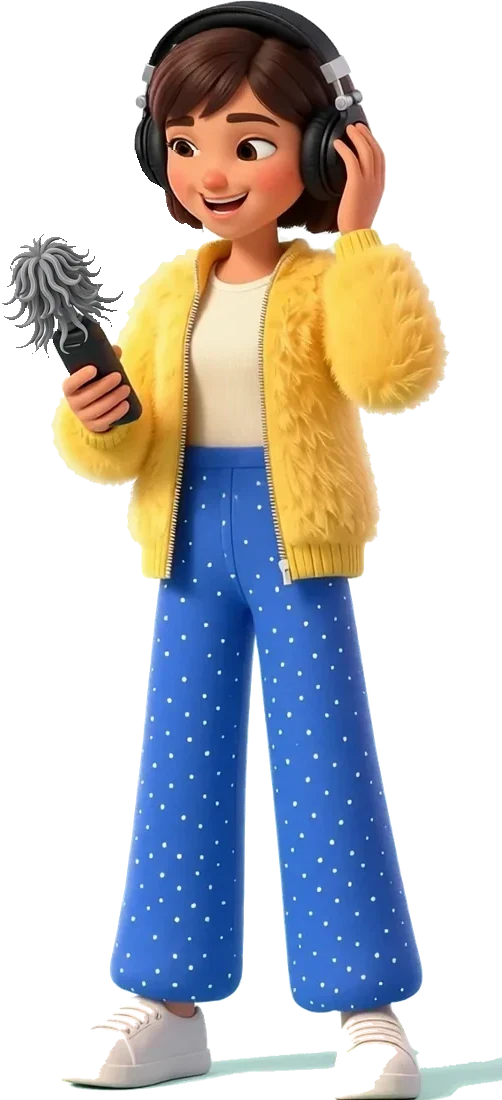
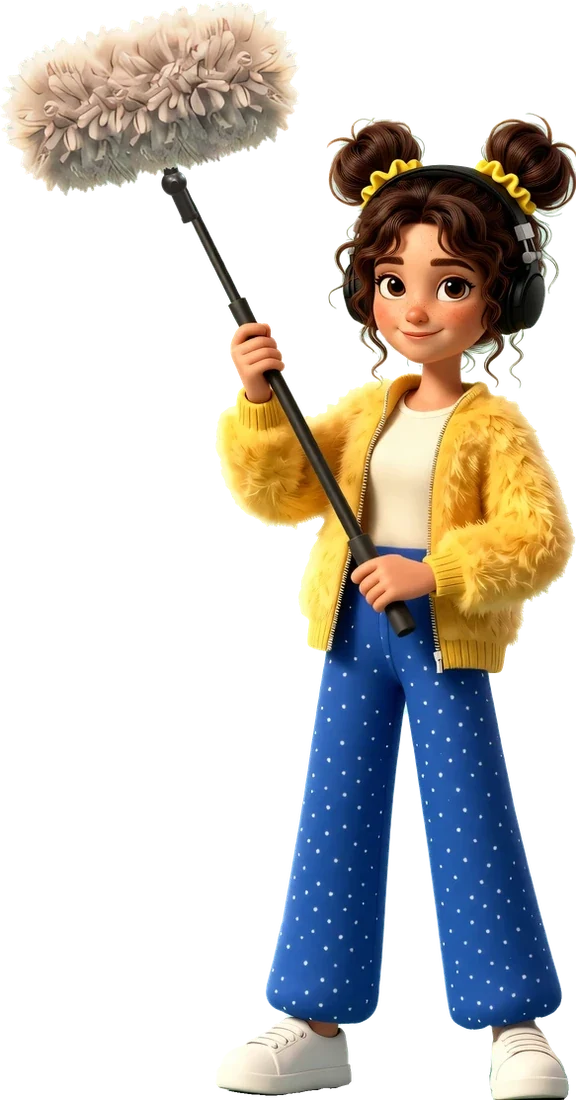
The team in a new, more stylish look: curly space buns, a workwear tester, a fox musician
- The recording person: fuller, curly space buns with yellow scrunchies; the same frame, so the boom
  windshield still hangs on her pole tip; on the map the round fluffy windshield on her boom again
- The tester: an American-style teal chore jacket over a dark t-shirt with a narrow vyshyvanka band on
  the cuffs, a calm face, the whole head in frame; on the map he holds the console with its screen to him
- The musician is a fox in streetwear: a keyboard on the first screen, a modular synth with patch
  cables on the map
- All six pictures finished the same way (4x upscale, cut, 1100 px, webp 90), so they share one
  sharpness; silhouettes, picture sizes and two descriptions (EN and UA) updated to match

diff --git a/index.html b/index.html
@@ -11,35 +11,35 @@
 <link rel="preconnect" href="https://fonts.gstatic.com" crossorigin>
 <link rel="stylesheet" href="https://fonts.googleapis.com/css2?family=Archivo:wdth,wght@62..125,100..900&family=Roboto+Flex:wdth,wght@25..151,100..1000&family=Montserrat:wght@600..900&display=swap">
 <script>try{if(localStorage.getItem("sfx-lang")==="uk"){document.documentElement.lang="uk";document.documentElement.classList.add("i18n-wait")}}catch(e){}</script>
-<link rel="stylesheet" href="css/style.css?v=202610232003">
+<link rel="stylesheet" href="css/style.css?v=202610232341">
 <link rel="preload" as="image" href="assets/system/scene-forest.webp" fetchpriority="high">
 <script type="importmap">
 {
   "imports": {
     "three": "https://cdn.jsdelivr.net/npm/three@0.170.0/build/three.module.min.js",
     "three/addons/": "https://cdn.jsdelivr.net/npm/three@0.170.0/examples/jsm/",
-    "./js/audio.js": "./js/audio.js?v=202610232003",
-    "./js/boom-frame.js": "./js/boom-frame.js?v=202610232003",
-    "./js/content.js": "./js/content.js?v=202610232003",
-    "./js/gift.js": "./js/gift.js?v=202610232003",
-    "./js/i18n-boot.js": "./js/i18n-boot.js?v=202610232003",
-    "./js/i18n-uk.js": "./js/i18n-uk.js?v=202610232003",
-    "./js/i18n.js": "./js/i18n.js?v=202610232003",
-    "./js/main.js": "./js/main.js?v=202610232003",
-    "./js/map.js": "./js/map.js?v=202610232003",
-    "./js/music/music.js": "./js/music/music.js?v=202610232003",
-    "./js/music/sound.js": "./js/music/sound.js?v=202610232003",
-    "./js/phone-speakers.js": "./js/phone-speakers.js?v=202610232003",
-    "./js/studio-anim.js": "./js/studio-anim.js?v=202610232003",
-    "./js/studio-console.js": "./js/studio-console.js?v=202610232003",
-    "./js/studio-foley.js": "./js/studio-foley.js?v=202610232003",
-    "./js/studio-piano.js": "./js/studio-piano.js?v=202610232003",
-    "./js/team-carousel.js": "./js/team-carousel.js?v=202610232003"
+    "./js/audio.js": "./js/audio.js?v=202610232341",
+    "./js/boom-frame.js": "./js/boom-frame.js?v=202610232341",
+    "./js/content.js": "./js/content.js?v=202610232341",
+    "./js/gift.js": "./js/gift.js?v=202610232341",
+    "./js/i18n-boot.js": "./js/i18n-boot.js?v=202610232341",
+    "./js/i18n-uk.js": "./js/i18n-uk.js?v=202610232341",
+    "./js/i18n.js": "./js/i18n.js?v=202610232341",
+    "./js/main.js": "./js/main.js?v=202610232341",
+    "./js/map.js": "./js/map.js?v=202610232341",
+    "./js/music/music.js": "./js/music/music.js?v=202610232341",
+    "./js/music/sound.js": "./js/music/sound.js?v=202610232341",
+    "./js/phone-speakers.js": "./js/phone-speakers.js?v=202610232341",
+    "./js/studio-anim.js": "./js/studio-anim.js?v=202610232341",
+    "./js/studio-console.js": "./js/studio-console.js?v=202610232341",
+    "./js/studio-foley.js": "./js/studio-foley.js?v=202610232341",
+    "./js/studio-piano.js": "./js/studio-piano.js?v=202610232341",
+    "./js/team-carousel.js": "./js/team-carousel.js?v=202610232341"
   }
 }
 </script>
-<script type="module" src="js/i18n-boot.js?v=202610232003"></script>
-<script type="module" src="js/main.js?v=202610232003"></script>
+<script type="module" src="js/i18n-boot.js?v=202610232341"></script>
+<script type="module" src="js/main.js?v=202610232341"></script>
 </head>
 <body>
 <a class="skip" href="#main">Skip to content</a>
@@ -89,7 +89,7 @@
       <div class="team" data-team data-start="1" role="region" aria-roledescription="carousel" aria-label="Our team: drag sideways or use the arrows to swap" tabindex="0">
         <div class="team__ring">
           <figure class="team__p" data-member="test" style="--h: .926">
-            <img class="team__body" src="assets/team/test.webp" srcset="assets/team/test-560.webp 261w, assets/team/test.webp 512w" sizes="(max-width: 1024px) 34vw, 17vw" alt="Illustration: a team member testing a mobile game on a phone" width="512" height="1100" decoding="async" draggable="false">
+            <img class="team__body" src="assets/team/test.webp" srcset="assets/team/test-560.webp 249w, assets/team/test.webp 489w" sizes="(max-width: 1024px) 34vw, 17vw" alt="Illustration: a team member testing a mobile game on a phone" width="489" height="1100" decoding="async" draggable="false">
           </figure>
           <figure class="team__p" data-member="rec" style="--h: 1">
             <img class="team__body" src="assets/team/rec-bare.webp" srcset="assets/team/rec-bare-560.webp 276w, assets/team/rec-bare.webp 543w" sizes="(max-width: 1024px) 38vw, 19vw" alt="Illustration: a team member recording sound with a boom microphone" width="543" height="1100" decoding="async" draggable="false">
@@ -98,7 +98,7 @@
             </div>
           </figure>
           <figure class="team__p" data-member="mix" style="--h: .905">
-            <img class="team__body" src="assets/team/mix.webp" srcset="assets/team/mix-560.webp 257w, assets/team/mix.webp 504w" sizes="(max-width: 1024px) 34vw, 17vw" alt="Illustration: a team member playing a MIDI keyboard" width="504" height="1100" decoding="async" draggable="false">
+            <img class="team__body" src="assets/team/mix.webp" srcset="assets/team/mix-560.webp 233w, assets/team/mix.webp 459w" sizes="(max-width: 1024px) 34vw, 17vw" alt="Illustration: a team member playing a MIDI keyboard" width="459" height="1100" decoding="async" draggable="false">
           </figure>
         </div>
         <div class="team__bar">
@@ -158,7 +158,7 @@
             <section class="bay" data-bay="sfx" aria-labelledby="bay-sfx">
               <h3 class="bay__title" id="bay-sfx"><span class="bay__dot" data-bay-dot="sfx" aria-hidden="true"></span>Sound effects</h3>
               <div class="bay__desk">
-                <img class="bay__person bay__person--rec" src="assets/team/rec-map-560.webp" srcset="assets/team/rec-map-560.webp 256w, assets/team/rec-map.webp 502w" sizes="150px" alt="Illustration: recording footsteps with a handheld recorder" width="502" height="1100" loading="lazy" decoding="async">
+                <img class="bay__person bay__person--rec" src="assets/team/rec-map-560.webp" srcset="assets/team/rec-map-560.webp 293w, assets/team/rec-map.webp 576w" sizes="150px" alt="Illustration: recording sound with a boom microphone" width="576" height="1100" loading="lazy" decoding="async">
                 <div class="principle__art principle__art--stage" id="card-sfx" data-scene="foley" role="group" aria-label="Sound effects: a boot over dirt, sand, grass and snow. Press a surface to hear the boot step on it."><span class="principle__hint" aria-hidden="true">Pick a surface</span><img class="principle__img" src="assets/studio/foley-640.webp" srcset="assets/studio/foley-640.webp 640w, assets/studio/foley-1024.webp 1024w" sizes="(max-width: 760px) 92vw, 300px" width="1024" height="768" loading="lazy" decoding="async" alt=""></div>
                 <button class="zoom-btn" type="button" data-zoom-open="card-sfx" data-zoom-label="Sound effects" aria-label="Open the sound effects larger"><svg viewBox="0 0 24 24" aria-hidden="true"><path d="M14 4h6v6M20 4l-7 7M10 20H4v-6M4 20l7-7"/></svg></button>
               </div>
@@ -166,7 +166,7 @@
             <section class="bay" data-bay="music" aria-labelledby="bay-music">
               <h3 class="bay__title" id="bay-music"><span class="bay__dot" data-bay-dot="music" aria-hidden="true"></span>Music</h3>
               <div class="bay__desk">
-                <img class="bay__person bay__person--mix" src="assets/team/mix-map-560.webp" srcset="assets/team/mix-map-560.webp 221w, assets/team/mix-map.webp 435w" sizes="150px" alt="Illustration: a musician holding a vinyl record" width="435" height="1100" loading="lazy" decoding="async">
+                <img class="bay__person bay__person--mix" src="assets/team/mix-map-560.webp" srcset="assets/team/mix-map-560.webp 229w, assets/team/mix-map.webp 450w" sizes="150px" alt="Illustration: a musician patching a modular synthesizer" width="450" height="1100" loading="lazy" decoding="async">
                 <div class="principle__art principle__art--play" id="card-music" data-scene="keys" tabindex="0" role="group" aria-label="A small keyboard you can play" aria-describedby="piano-help"><span class="principle__hint" aria-hidden="true">Play me</span><span class="visually-hidden" id="piano-help">Click or tap the keys. With the keyboard, use A to L for white keys and W, E, T, Y, U, O, P for black keys.</span><img class="principle__img" src="assets/studio/music-640.webp" srcset="assets/studio/music-640.webp 640w, assets/studio/music-1024.webp 1024w" sizes="(max-width: 760px) 92vw, 300px" width="1024" height="768" loading="lazy" decoding="async" alt=""></div>
                 <button class="zoom-btn" type="button" data-zoom-open="card-music" data-zoom-label="Music" aria-label="Open the keyboard larger"><svg viewBox="0 0 24 24" aria-hidden="true"><path d="M14 4h6v6M20 4l-7 7M10 20H4v-6M4 20l7-7"/></svg></button>
               </div>
@@ -181,7 +181,7 @@
           <div class="stage__bay">
             <div class="bay" data-bay="test">
               <div class="bay__desk bay__desk--side">
-                <img class="bay__person bay__person--test" src="assets/team/test-map-560.webp" srcset="assets/team/test-map-560.webp 210w, assets/team/test-map.webp 412w" sizes="110px" alt="Illustration: playing a game on a handheld console" width="412" height="1100" loading="lazy" decoding="async">
+                <img class="bay__person bay__person--test" src="assets/team/test-map-560.webp" srcset="assets/team/test-map-560.webp 219w, assets/team/test-map.webp 430w" sizes="110px" alt="Illustration: playing a game on a handheld console" width="430" height="1100" loading="lazy" decoding="async">
                 <div class="principle__art principle__art--pad" id="card-test" data-scene="console" role="group" aria-label="A handheld console with a small rhythm game: four strings on its screen, notes slide down to their targets." aria-describedby="pad-help"><span class="principle__hint" aria-hidden="true">Sweep across the strings</span><span class="visually-hidden" id="pad-help">The four strings play the notes C, E, G and A. Press Play, then pluck each string as its note reaches the target: pass the cursor across the string (no click needed), swipe across it on a touch screen, or use the keys D, F, J and K. Out of a game the strings can be plucked freely.</span><img class="principle__img" src="assets/studio/engine-tall-640.webp" width="640" height="853" loading="lazy" decoding="async" alt=""></div>
                 <button class="zoom-btn" type="button" data-zoom-open="card-test" data-zoom-label="Integration and testing" aria-label="Open the Game Boy larger"><svg viewBox="0 0 24 24" aria-hidden="true"><path d="M14 4h6v6M20 4l-7 7M10 20H4v-6M4 20l7-7"/></svg></button>
               </div>

diff --git a/js/main.js b/js/main.js
@@ -72,7 +72,7 @@ function initHeader() {
 // line on top, the phone under it, the team under the phone. The people's tops come from their pictures:
 // bands of their silhouettes, every 4 % of the height (_dev/tools/team_silhouette.py), her microphone from
 // js/boom-frame.js; thin things (her pole) are left out.
-const SILHOUETTE = {"test":[[0.0,0.04,0.42,0.797],[0.04,0.08,0.396,0.811],[0.08,0.12,0.404,0.801],[0.12,0.16,0.381,0.711],[0.16,0.2,0.395,0.709],[0.2,0.24,0.0,0.828],[0.24,0.28,0.0,0.896],[0.28,0.32,0.0,0.934],[0.32,0.36,0.045,0.971],[0.36,0.4,0.072,0.998],[0.4,0.44,0.08,1.0],[0.44,0.48,0.285,0.986],[0.48,0.52,0.281,0.945],[0.52,0.56,0.285,0.828],[0.56,0.6,0.32,0.777]],"rec":[[0.12,0.16,0.683,0.843],[0.16,0.2,0.608,0.921],[0.2,0.24,0.586,0.947],[0.24,0.28,0.575,0.954],[0.28,0.32,0.354,0.952],[0.32,0.36,0.359,0.943],[0.36,0.4,0.32,0.936],[0.4,0.44,0.317,0.974],[0.44,0.48,0.35,0.996],[0.48,0.52,0.488,1.0],[0.52,0.56,0.475,0.969],[0.56,0.6,0.499,0.901]],"mix":[[0.0,0.04,0.27,0.597],[0.04,0.08,0.218,0.637],[0.08,0.12,0.206,0.637],[0.12,0.16,0.21,0.611],[0.16,0.2,0.256,0.563],[0.2,0.24,0.236,0.607],[0.24,0.28,0.121,0.706],[0.28,0.32,0.087,0.734],[0.32,0.36,0.05,0.782],[0.36,0.4,0.022,0.819],[0.4,0.44,0.02,0.839],[0.44,0.48,0.042,0.994],[0.48,0.52,0.19,1.0],[0.52,0.56,0.0,0.919],[0.56,0.6,0.0,0.687]]};
+const SILHOUETTE = {"test":[[0.0,0.04,0.444,0.64],[0.04,0.08,0.407,0.804],[0.08,0.12,0.384,0.812],[0.12,0.16,0.395,0.787],[0.16,0.2,0.37,0.697],[0.2,0.24,0.002,0.714],[0.24,0.28,0.0,0.863],[0.28,0.32,0.0,0.912],[0.32,0.36,0.0,0.949],[0.36,0.4,0.043,0.984],[0.4,0.44,0.043,1.0],[0.44,0.48,0.088,1.0],[0.48,0.52,0.266,0.986],[0.52,0.56,0.262,0.875],[0.56,0.6,0.276,0.798]],"rec":[[0.08,0.12,0.545,0.961],[0.12,0.16,0.538,1.0],[0.16,0.2,0.541,1.0],[0.2,0.24,0.556,0.958],[0.24,0.28,0.554,0.945],[0.28,0.32,0.355,0.932],[0.32,0.36,0.361,0.891],[0.36,0.4,0.328,0.936],[0.4,0.44,0.328,0.972],[0.44,0.48,0.355,0.996],[0.48,0.52,0.49,0.998],[0.52,0.56,0.483,0.969],[0.56,0.6,0.499,0.901]],"mix":[[0.0,0.04,0.187,0.253],[0.04,0.08,0.183,0.588],[0.08,0.12,0.185,0.577],[0.12,0.16,0.196,0.569],[0.16,0.2,0.192,0.582],[0.2,0.24,0.237,0.536],[0.24,0.28,0.174,0.647],[0.28,0.32,0.12,0.702],[0.32,0.36,0.074,0.745],[0.36,0.4,0.028,0.784],[0.4,0.44,0.028,0.791],[0.44,0.48,0.05,0.736],[0.48,0.52,0.0,0.669],[0.52,0.56,0.004,0.675],[0.56,0.6,0.163,0.749]]};
 const PHONE_RATIO = 2.05;
 
 // every place the people pass on the carousel (k = -1 left ... 0 middle ... +1 right), as rects on the stage

diff --git a/js/i18n-uk.js b/js/i18n-uk.js
@@ -112,11 +112,11 @@ export const UK = {
   'A mobile game on the phone: a forest clearing with a hut, a campfire and a stream': 'Мобільна гра на телефоні: лісова галявина з хатинкою, багаттям і струмком',
   'We adapt the sound effects and the music to your game.': 'Адаптуємо звукові ефекти й музику під вашу гру.',
   'Sound tailored': 'Звук адаптовано',
-  'Illustration: recording footsteps with a handheld recorder': 'Ілюстрація: запис кроків ручним рекордером',
+  'Illustration: recording sound with a boom microphone': 'Ілюстрація: запис звуку бум-мікрофоном',
   'Sound effects: a boot over dirt, sand, grass and snow. Press a surface to hear the boot step on it.':
     'Звукові ефекти: черевик над землею, піском, травою і снігом. Натисніть на поверхню, щоб почути крок по ній.',
   'Open the sound effects larger': 'Відкрити звукові ефекти більшими',
-  'Illustration: a musician holding a vinyl record': 'Ілюстрація: музикант тримає вінілову платівку',
+  'Illustration: a musician patching a modular synthesizer': 'Ілюстрація: музикант комутує модульний синтезатор',
   'Open the keyboard larger': 'Відкрити клавіатуру більшою',
   'We connect the solution to the game and check its behaviour and balance in gameplay.': 'Підключаємо рішення до гри й перевіряємо його поведінку та баланс у геймплеї.',
   'Checked in the game': 'Перевірено в грі',
